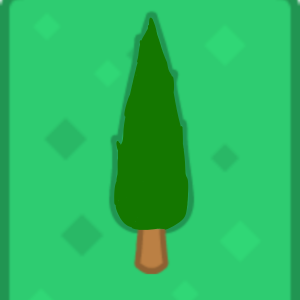
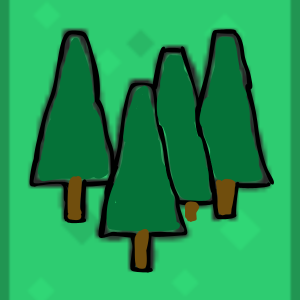
added more textures for towers, enemy, and overhauled terrain textures. Thx to dafa

diff --git a/Config.py b/Config.py
@@ -35,7 +35,7 @@ class Config:
     ENEMY_HEALTH = 100
     BASE_HEALTH = 150
     INITIAL_RESOURCES = 300
-    BARRICADE_COST = 20
+    BARRICADE_COST = 50
     BARRICADE_RESOURCE_COST = 50
     KILL_REWARD = 20
     ENEMY_DAMAGE = 10
@@ -66,7 +66,7 @@ class Config:
     TOWER_ARROW_COST = 50
     TOWER_ARROW_RANGE = 5  # tiles
     TOWER_ARROW_DAMAGE = 25
-    TOWER_ARROW_FIRE_RATE = 90  # frames (1.5 seconds at 60 FPS)
+    TOWER_ARROW_FIRE_RATE = 50  # frames (1.5 seconds at 60 FPS)
     
     TOWER_BOMB_COST = 100
     TOWER_BOMB_RANGE = 3  # tiles
@@ -105,7 +105,7 @@ class Config:
         'end': 'markers/end.png',
     }
     
-    BARRICADE_PNG_PATH = 'barricade.png'
+    BARRICADE_PNG_PATH = 'towers/barricade.png'
     
     TOWER_PNG_PATHS = {
         'arrow': 'towers/arrow_tower.png',

diff --git a/ASSETS.md b/ASSETS.md
@@ -29,11 +29,11 @@ a*-assault/
 │   │   └── enemy.png
 │   ├── towers/
 │   │   ├── arrow_tower.png
-│   │   └── bomb_tower.png
+│   │   ├── bomb_tower.png
+│   │   └── barricade.png
 │   └── markers/
 │       ├── start.png
 │       └── end.png
-├── barricade.png
 ├── game.py
 ├── Config.py
 └── ... (other game files)
@@ -71,7 +71,7 @@ The game will automatically detect and load your PNG files. No code changes need
 Your PNG files can be any size - they will be automatically scaled to fit the game's tile size.
 
 ### PNG Format
-
+i
 ### PNG Format
  
  - Use standard PNG format
@@ -139,7 +139,7 @@ class Config:
 ## Partial PNG Support
 
 You don't need to provide all PNG files! The game works with any combination:
-
+i
 - **No PNG files**: Uses all fallback rendering (original look)
 - **Some PNG files**: Uses PNG where available, fallback for missing files
 - **All PNG files**: Full custom graphics
